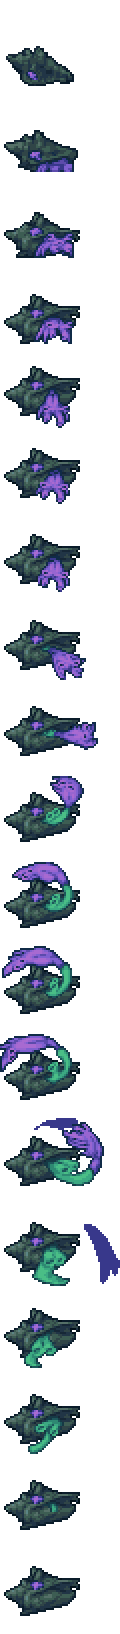
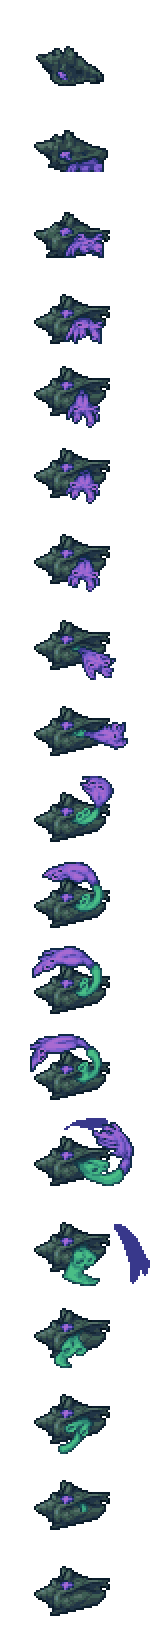
Improved spin with easing and made queen conch spawn less noticeable
Okay I think this is more or less what I had in mind
Two things should be improved for the transition to the real npc:
1. Sprite snapping to a slightly different location
2. First frame should be in the shell to match end of the opening animation

Changed region(s): [[0.0, 0.0312, 0.9, 0.9988], [0.9, 0.7491, 0.95, 0.7803]]

diff --git a/Content/NPCs/Shipyard/QueenConchIntro.cs b/Content/NPCs/Shipyard/QueenConchIntro.cs
@@ -1,11 +1,11 @@
-using Terraria;
-using Terraria.ID;
-using Terraria.ModLoader;
-using Terraria.Audio;
-using ReLogic.Content;
 using Microsoft.Xna.Framework;
 using Microsoft.Xna.Framework.Graphics;
+using ReLogic.Content;
 using System;
+using Terraria;
+using Terraria.Audio;
+using Terraria.ID;
+using Terraria.ModLoader;
 
 namespace Spooky.Content.NPCs.Shipyard
 {
@@ -49,6 +49,7 @@ namespace Spooky.Content.NPCs.Shipyard
             SpawnModBiomes = new int[1] { ModContent.GetInstance<Biomes.ShipyardBiome>().Type };
         }
 
+		public bool holdFrame = true;
         public override void FindFrame(int frameHeight)
         {
 			NPC.frameCounter++;
@@ -61,9 +62,15 @@ namespace Spooky.Content.NPCs.Shipyard
             //emerge frame sits on the ground
 			if (CurrentAnimation == AnimationState.Emerge)
 			{
-				if (NPC.frame.Y >= frameHeight * 3)
+				if (NPC.frame.Y >= frameHeight * 3 && holdFrame)
 				{
 					NPC.frame.Y = 2 * frameHeight;
+					NPC.frameCounter = 0;
+					holdFrame = false;
+				}
+				if (NPC.frame.Y >= frameHeight * 7)
+				{
+					NPC.frame.Y = 6 * frameHeight;
 				}
 			}
             else if (CurrentAnimation == AnimationState.PrepareThrow)
@@ -96,7 +103,7 @@ namespace Spooky.Content.NPCs.Shipyard
 		{
 			int StartSpinning = 50;
 			int BeginThrow = 132;
-			int SpawnQueenConch = BeginThrow + 15;
+			int SpawnQueenConch = BeginThrow + 35;
 
 			NPC.ai[0]++;
             if (NPC.ai[0] == 1)
@@ -120,13 +127,33 @@ namespace Spooky.Content.NPCs.Shipyard
 			}
 
             //dont start rotating until the throwing animation begins
-            if (NPC.ai[0] >= StartSpinning + 35)
+            if (NPC.ai[0] >= StartSpinning)
             {
-                //this is where the npc should rotate alongside the throwing charge up animation
-                //nothing for now, look into proper ease-in rotation later
+				//this is where the npc should rotate alongside the throwing charge up animation
+				//nothing for now, look into proper ease-in rotation later
+				if (NPC.ai[0] < BeginThrow -7) NPC.rotation = SpinEasing(StartSpinning, BeginThrow - 7, NPC.ai[0]);
+				else
+				{
+					float progress = 1;
+					if (NPC.ai[0] <= SpawnQueenConch - 8) progress = 0.4118f + (NPC.ai[0] - BeginThrow -7) / (SpawnQueenConch - (BeginThrow +1));					
+					NPC.TargetClosest();
+					Player player = Main.player[NPC.target];
+
+					Vector2 RotateTowards = player.Center - NPC.Center;
+					float RotateDirection = (float)Math.Atan2(RotateTowards.Y, RotateTowards.X) + 4.71f;
+					float targetSpeed = 0.05f;
+					float RotateSpeed = targetSpeed * progress;
+					NPC.rotation = NPC.rotation.AngleTowards(RotateDirection - MathHelper.TwoPi, RotateSpeed);
+
+					float theta = MathHelper.PiOver2 * MathF.Sin(NPC.ai[1] * 12) * 0.4f;
+					Vector2 GoTo = player.Center + new Vector2(0, -280).RotatedBy(theta);
+
+					Vector2 desiredVelocity = NPC.DirectionTo(GoTo) * 12;
+					NPC.velocity = Vector2.Lerp(NPC.velocity, desiredVelocity, 1f / 20 * progress);
+				}
             }
 
-			if (NPC.ai[0] == BeginThrow - 24) 
+			if (NPC.ai[0] == BeginThrow - 18) 
             {
                 CurrentAnimation = AnimationState.Throw;
                 NPC.netUpdate = true;
@@ -175,11 +202,13 @@ namespace Spooky.Content.NPCs.Shipyard
             }
         }
 
-        private float spinEasing(int start, int end, float time)
+        private float SpinEasing(int start, int end, float time)
 		{
-			// (time - start) / (end - start) gives a value between 0 and 1 
-			// implement something from https://easings.net/ 👍
-			return 0;
+			double progress = (time - start) / (end - start);
+			double y = 1 + (progress * 0.5);
+			double x = Math.Pow(progress, y);
+			double degrees = 720 * (x < 0.5 ? 2 * x * x : 1 - Math.Pow(-2 * x + 2, 2) / 2);
+			return (float) (degrees * 0.017453292519943295769236907684886); //radians 💅
 		}
     }
 }
